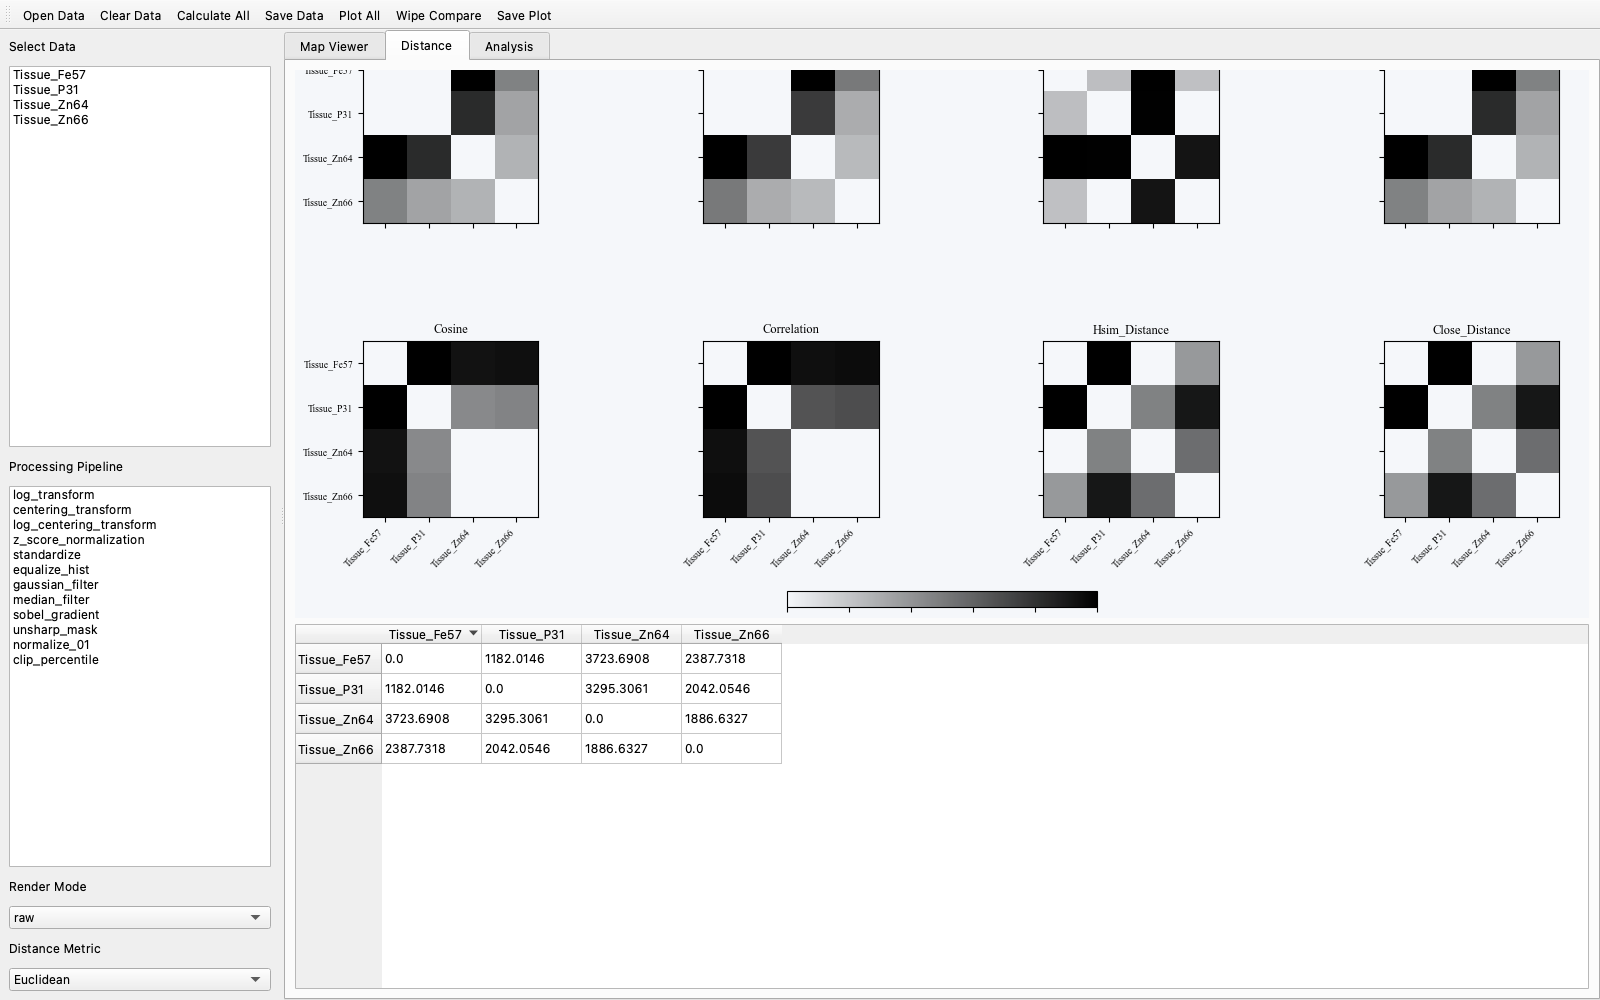
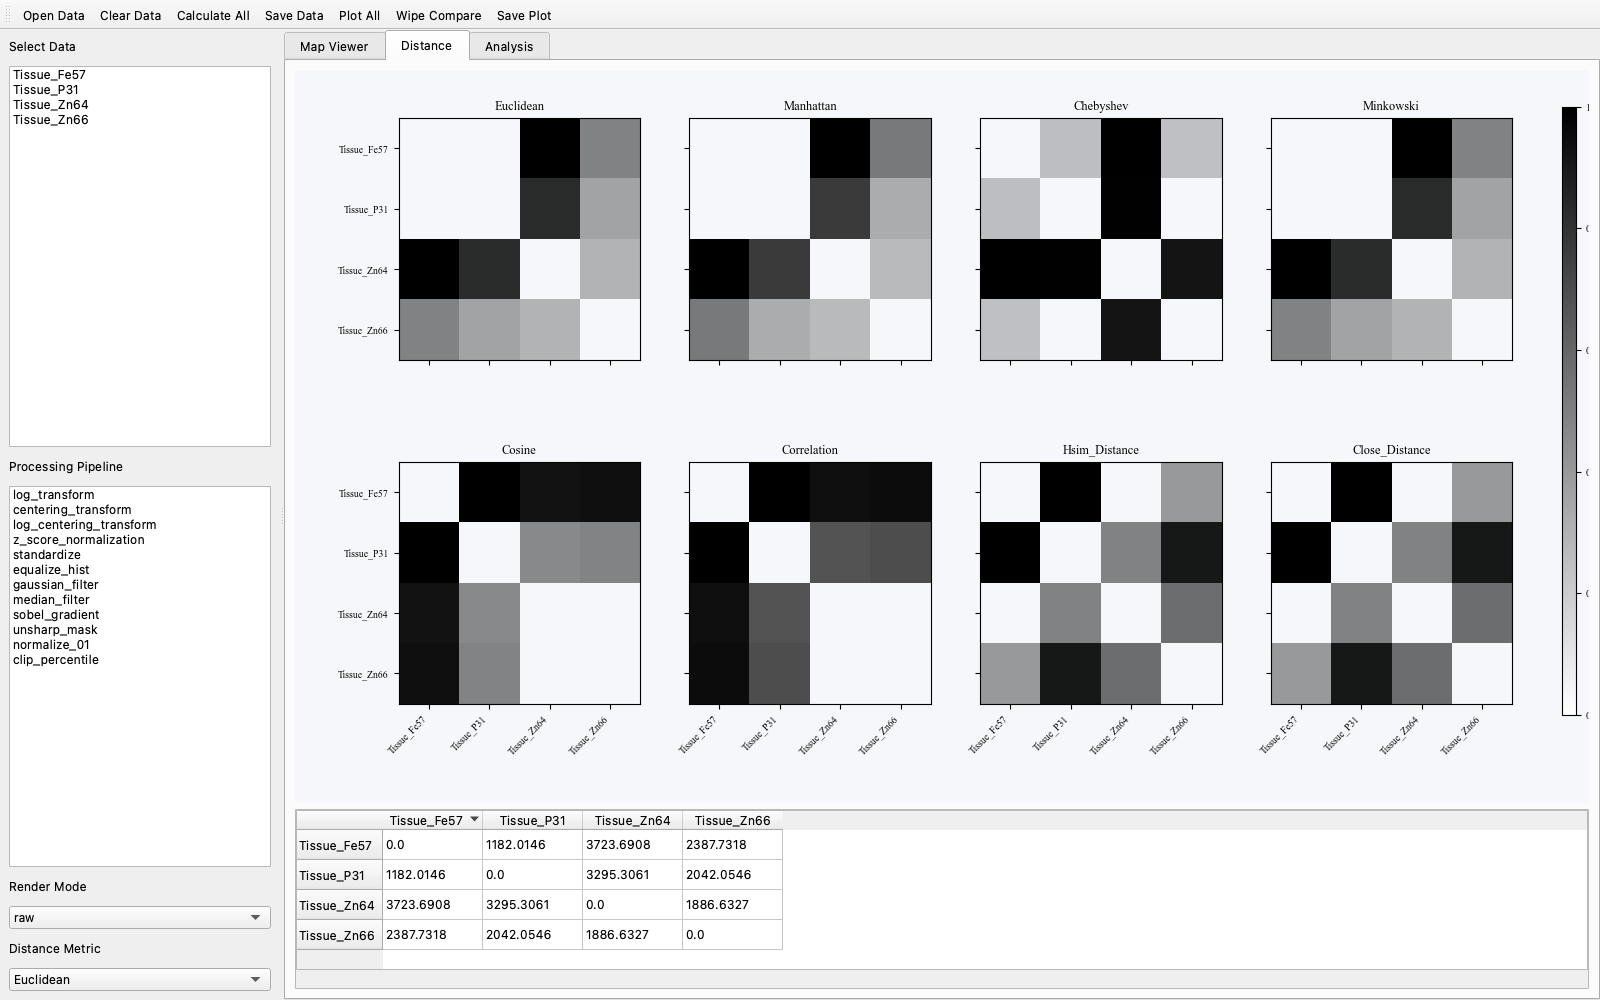
v1.2.6: distance tab - scrollable table + vertical colorbar in own column
- Table capped at 180px in QScrollArea (drag to see more)
- Heatmap grid gets max vertical space
- Vertical colorbar in narrow 5th GridSpec column, no intrusion
- 8 heatmaps evenly distributed 2x4, minimal whitespace

diff --git a/cpsvisualizer/src/cpsvisualizer/app.py b/cpsvisualizer/src/cpsvisualizer/app.py
@@ -502,8 +502,13 @@ class CPSVisualizer(QMainWindow):
         v = QVBoxLayout()
         self._dist_canvas = FigureCanvas(Figure(figsize=(12, 6), dpi=self.dpi))
         self._table = CustomQTableView()
-        v.addWidget(self._dist_canvas, 3)
-        v.addWidget(self._table, 2)
+        self._table.setMaximumHeight(160)
+        table_scroll = QScrollArea()
+        table_scroll.setWidgetResizable(True)
+        table_scroll.setWidget(self._table)
+        table_scroll.setMaximumHeight(180)
+        v.addWidget(self._dist_canvas, 1)
+        v.addWidget(table_scroll, 0)
         tab.setLayout(v)
         self._tabs.addTab(tab, 'Distance')
 
@@ -708,7 +713,8 @@ class CPSVisualizer(QMainWindow):
 
     def _plot_distance_grid(self):
         """Render 8 representative distance metrics as a 2x4 grid of
-        0-1 normalized heatmaps, with a shared colorbar below the grid."""
+        0-1 normalized heatmaps, with a narrow vertical colorbar in its
+        own column (col 5) so heatmaps stay evenly distributed."""
         fig = self._dist_canvas.figure
         fig.clear()
         fig.patch.set_facecolor(FIG_BG)
@@ -724,8 +730,11 @@ class CPSVisualizer(QMainWindow):
         all_metrics = [m for m in self.DIST_GRID if m in self._dist_funcs]
         nrows, ncols = 2, 4
         metrics = all_metrics[:nrows * ncols]
-        fig.set_layout_engine('constrained', wspace=0.35, hspace=0.35,
-                              rect=[0, 0.08, 1, 1])
+        from matplotlib.gridspec import GridSpec
+        gs = GridSpec(nrows, ncols + 1, figure=fig,
+                      width_ratios=[1, 1, 1, 1, 0.06],
+                      wspace=0.25, hspace=0.30,
+                      left=0.08, right=0.99, top=0.95, bottom=0.12)
         images = []
         for pos, mname in enumerate(metrics):
             if mname not in self.result_df_dict:
@@ -739,7 +748,8 @@ class CPSVisualizer(QMainWindow):
                 if hi - lo > 1e-12:
                     vals = (vals - lo) / (hi - lo)
                     np.fill_diagonal(vals, 0.0)
-            ax = fig.add_subplot(nrows, ncols, pos + 1)
+            row, col = pos // ncols, pos % ncols
+            ax = fig.add_subplot(gs[row, col])
             ax.set_facecolor(FIG_BG)
             im = ax.imshow(vals, cmap=ink_colormap(), vmin=0.0, vmax=1.0,
                            aspect='equal')
@@ -747,8 +757,6 @@ class CPSVisualizer(QMainWindow):
             ax.set_title(mname, fontsize=9)
             ax.set_xticks(range(n))
             ax.set_yticks(range(n))
-            col = pos % ncols
-            row = pos // ncols
             if row == nrows - 1:
                 ax.set_xticklabels(names, rotation=45, ha='right', fontsize=7)
             else:
@@ -757,17 +765,18 @@ class CPSVisualizer(QMainWindow):
                 ax.set_yticklabels(names, fontsize=7)
             else:
                 ax.set_yticklabels([])
-        # horizontal colorbar below the grid, centred
+        # vertical colorbar in the narrow 5th column, spanning both rows
+        cax = fig.add_subplot(gs[:, ncols])
         if images:
             import matplotlib as _mpl
             norm = _mpl.colors.Normalize(vmin=0.0, vmax=1.0)
             sm = _mpl.cm.ScalarMappable(cmap=ink_colormap(), norm=norm)
             sm.set_array([])
-            cax = fig.add_axes([0.38, 0.02, 0.24, 0.03])
-            cax.set_facecolor(FIG_BG)
-            cbar = fig.colorbar(sm, cax=cax, orientation='horizontal')
+            cbar = fig.colorbar(sm, cax=cax)
             cbar.set_label('normalized distance (0-1)', fontsize=8)
             cbar.ax.tick_params(labelsize=7)
+        else:
+            cax.axis('off')
         self._dist_canvas.draw()
 
     def _plot_distance_heatmap(self, name):

diff --git a/cpsvisualizer/src/setup.py b/cpsvisualizer/src/setup.py
@@ -15,7 +15,7 @@ except Exception:
 
 setup(
     name='cpsvisualizer',
-    version='1.2.5',
+    version='1.2.6',
     description='CPS-Visualizer: Visualization, similarity measurement, and statistical analysis of LA-ICP-MS surface scan data.',
     long_description=README,
     long_description_content_type='text/markdown',
